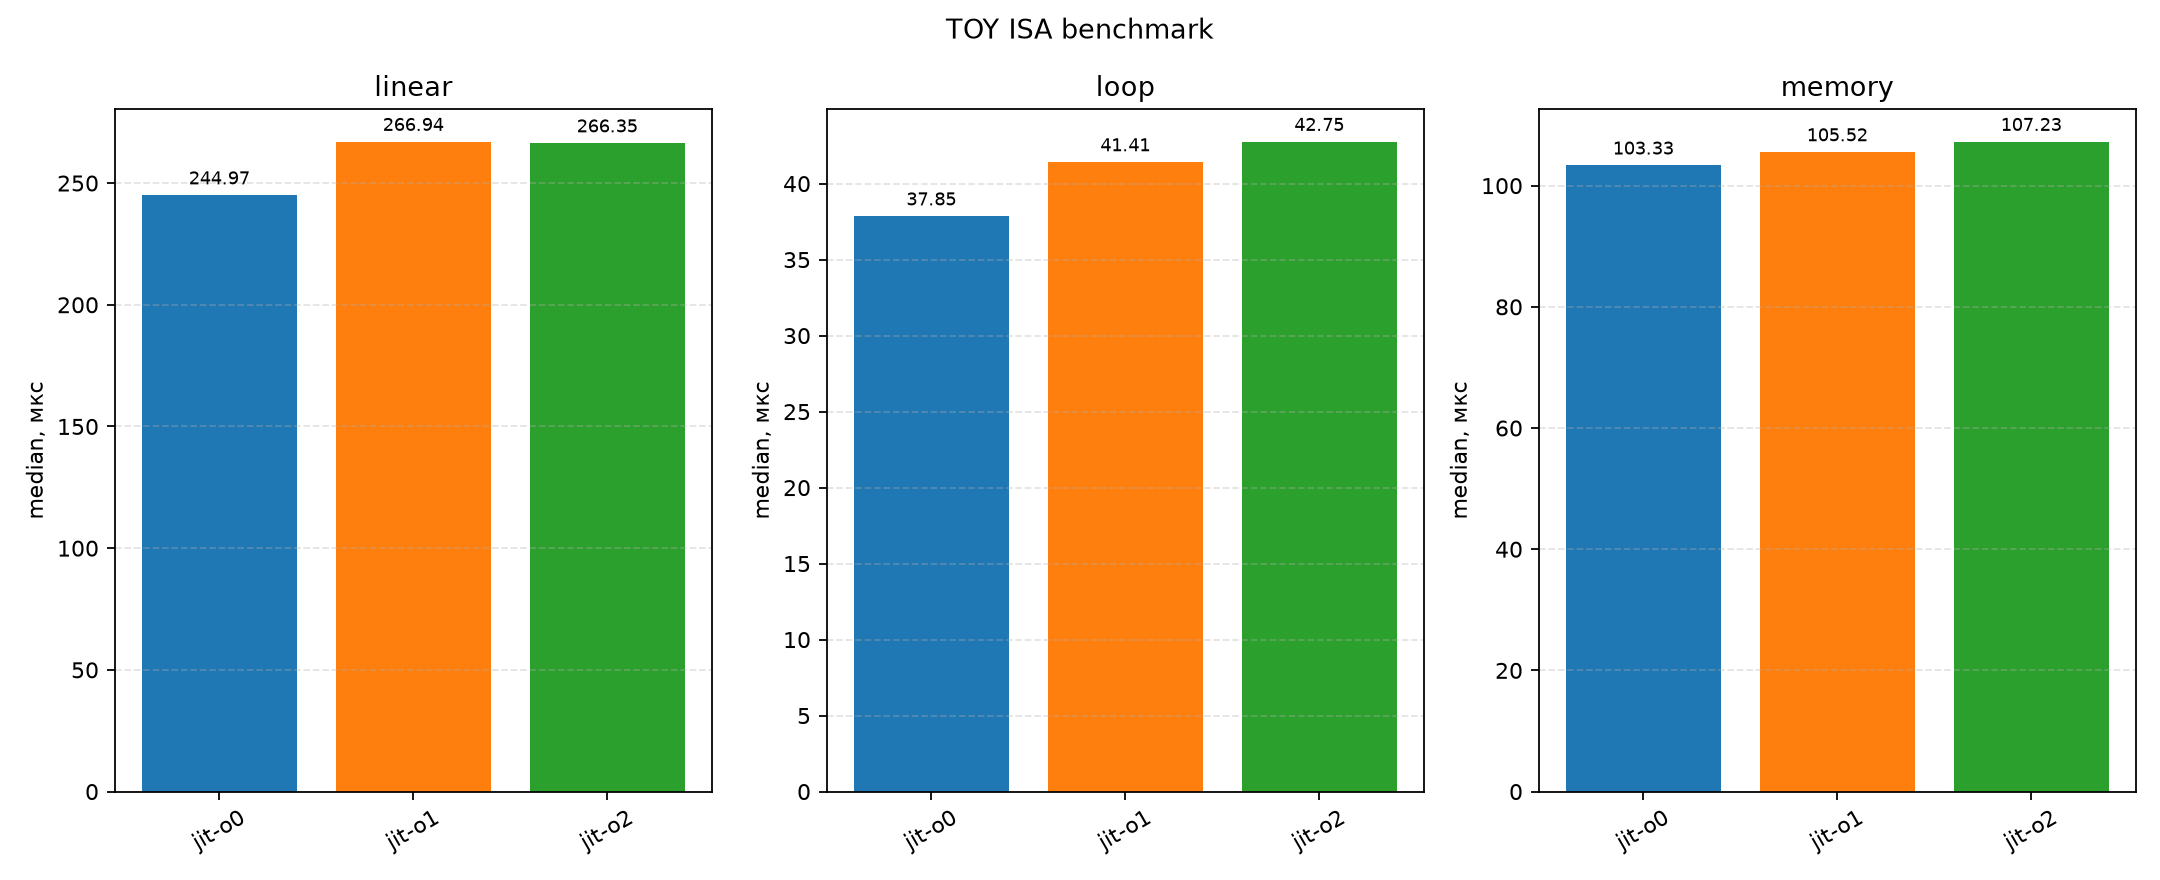
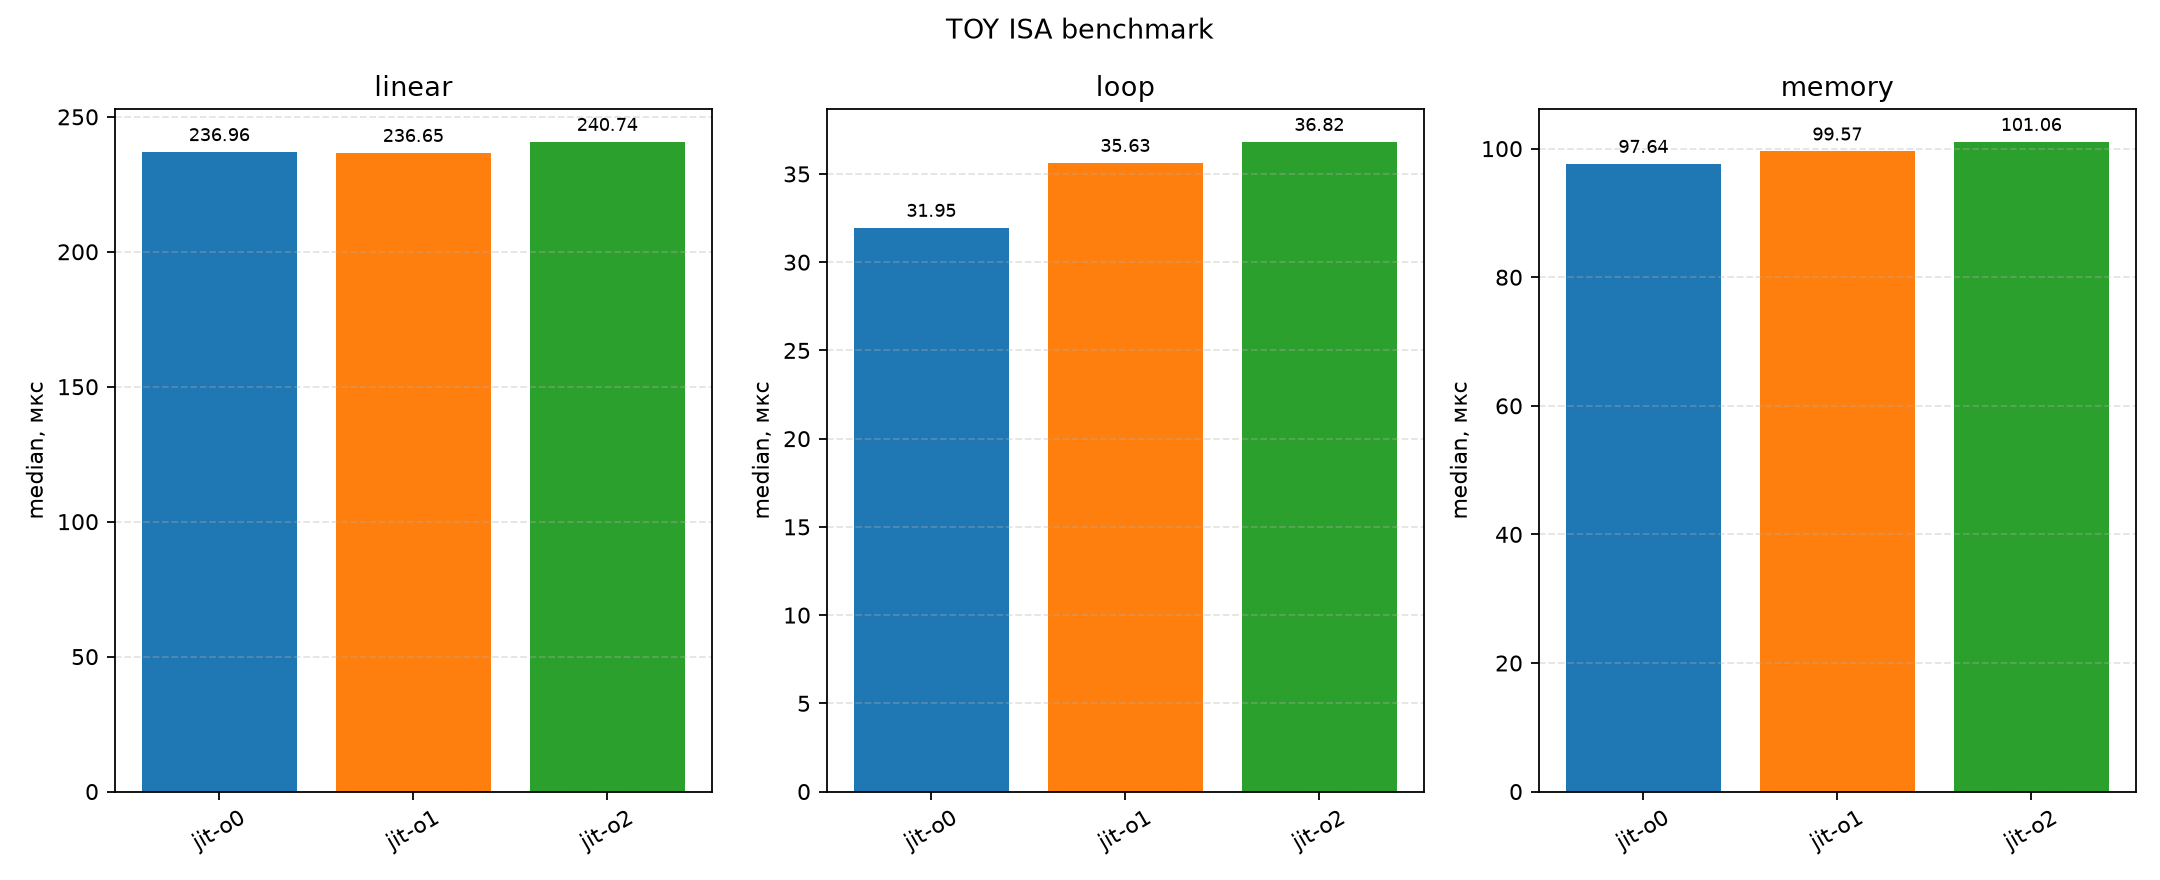
Optimize BEQ duplication

diff --git a/src/execution_type/jit_executor.cpp b/src/execution_type/jit_executor.cpp
@@ -252,30 +252,6 @@ void encodeJ(ir_ctx *ctx, ExecutionContext &Context, const TIInstruction &Inst,
   encodePc(ctx, Context, Target);
 }
 
-void encodeBeq(ir_ctx *ctx, ExecutionContext &Context,
-               const TIInstruction &Inst, uint32_t InstructionAddress) {
-  uint32_t *RsPtr = &Context.cpu().Registers[Inst.Operands[0].Value];
-  uint32_t *RtPtr = &Context.cpu().Registers[Inst.Operands[1].Value];
-  uint32_t Offset = Inst.Operands[2].Value;
-
-  ir_ref RsVal = ir_LOAD_U32(ir_CONST_ADDR(RsPtr));
-  ir_ref RtVal = ir_LOAD_U32(ir_CONST_ADDR(RtPtr));
-
-  ir_ref cond = ir_IF(ir_EQ(RsVal, RtVal));
-  ir_IF_TRUE(cond);
-  ir_ref NewPC =
-      ir_CONST_U32(InstructionAddress + Offset * TI32::INSTRUCTION_SIZE);
-  ir_ref end_true = ir_END();
-
-  ir_IF_FALSE(cond);
-  ir_ref IncPC     = ir_CONST_U32(InstructionAddress + TI32::INSTRUCTION_SIZE);
-  ir_ref end_false = ir_END();
-
-  ir_MERGE_2(end_true, end_false);
-  ir_ref ResultPC = ir_PHI_2(IR_U32, NewPC, IncPC);
-  ir_STORE(ir_CONST_ADDR(&Context.cpu().PC), ResultPC);
-}
-
 void encodeInstruction(ir_ctx *ctx, ExecutionContext &Context,
                        ir_ref ContextReference,
                        const TIInstruction &Instruction,
@@ -295,8 +271,6 @@ void encodeInstruction(ir_ctx *ctx, ExecutionContext &Context,
     return encodeSt(ctx, ContextReference, Context, Instruction);
   case TIOpcode::STP:
     return encodeStp(ctx, ContextReference, Context, Instruction);
-  case TIOpcode::BEQ:
-    return encodeBeq(ctx, Context, Instruction, InstructionAddress);
   case TIOpcode::J:
     return encodeJ(ctx, Context, Instruction, InstructionAddress);
   case TIOpcode::CLZ:
@@ -366,11 +340,14 @@ ir_ref encodeNextJitEntry(ir_ctx *ctx, ExecutionContext &Context,
     ir_ref Condition = ir_IF(ir_EQ(RsVal, RtVal));
     ir_IF_TRUE(Condition);
     ir_ref TakenEntry = encodeJitEntryLoad(ctx, Cache, TakenAddress);
-    ir_ref TakenEnd   = ir_END();
+    ir_STORE(ir_CONST_ADDR(&Context.cpu().PC), ir_CONST_U32(TakenAddress));
+    ir_ref TakenEnd = ir_END();
 
     ir_IF_FALSE(Condition);
     ir_ref FallthroughEntry =
         encodeJitEntryLoad(ctx, Cache, FallthroughAddress);
+    ir_STORE(ir_CONST_ADDR(&Context.cpu().PC),
+             ir_CONST_U32(FallthroughAddress));
     ir_ref FallthroughEnd = ir_END();
 
     ir_MERGE_2(TakenEnd, FallthroughEnd);
@@ -402,6 +379,12 @@ TICompiledBlock compileBlock(ir_ctx *ctx, ExecutionContext &Context,
 
   const auto &Instructions = Block.instructions();
   for (std::size_t Index = 0; Index < Block.instructionCount(); ++Index) {
+    const bool IsTerminalBeq = Index + 1 == Block.instructionCount() &&
+                               Instructions[Index].OpCode == TIOpcode::BEQ;
+    if (IsTerminalBeq) {
+      continue;
+    }
+
     uint32_t InstructionAddress =
         Block.startAddress() +
         static_cast<uint32_t>(Index * TI32::INSTRUCTION_SIZE);
